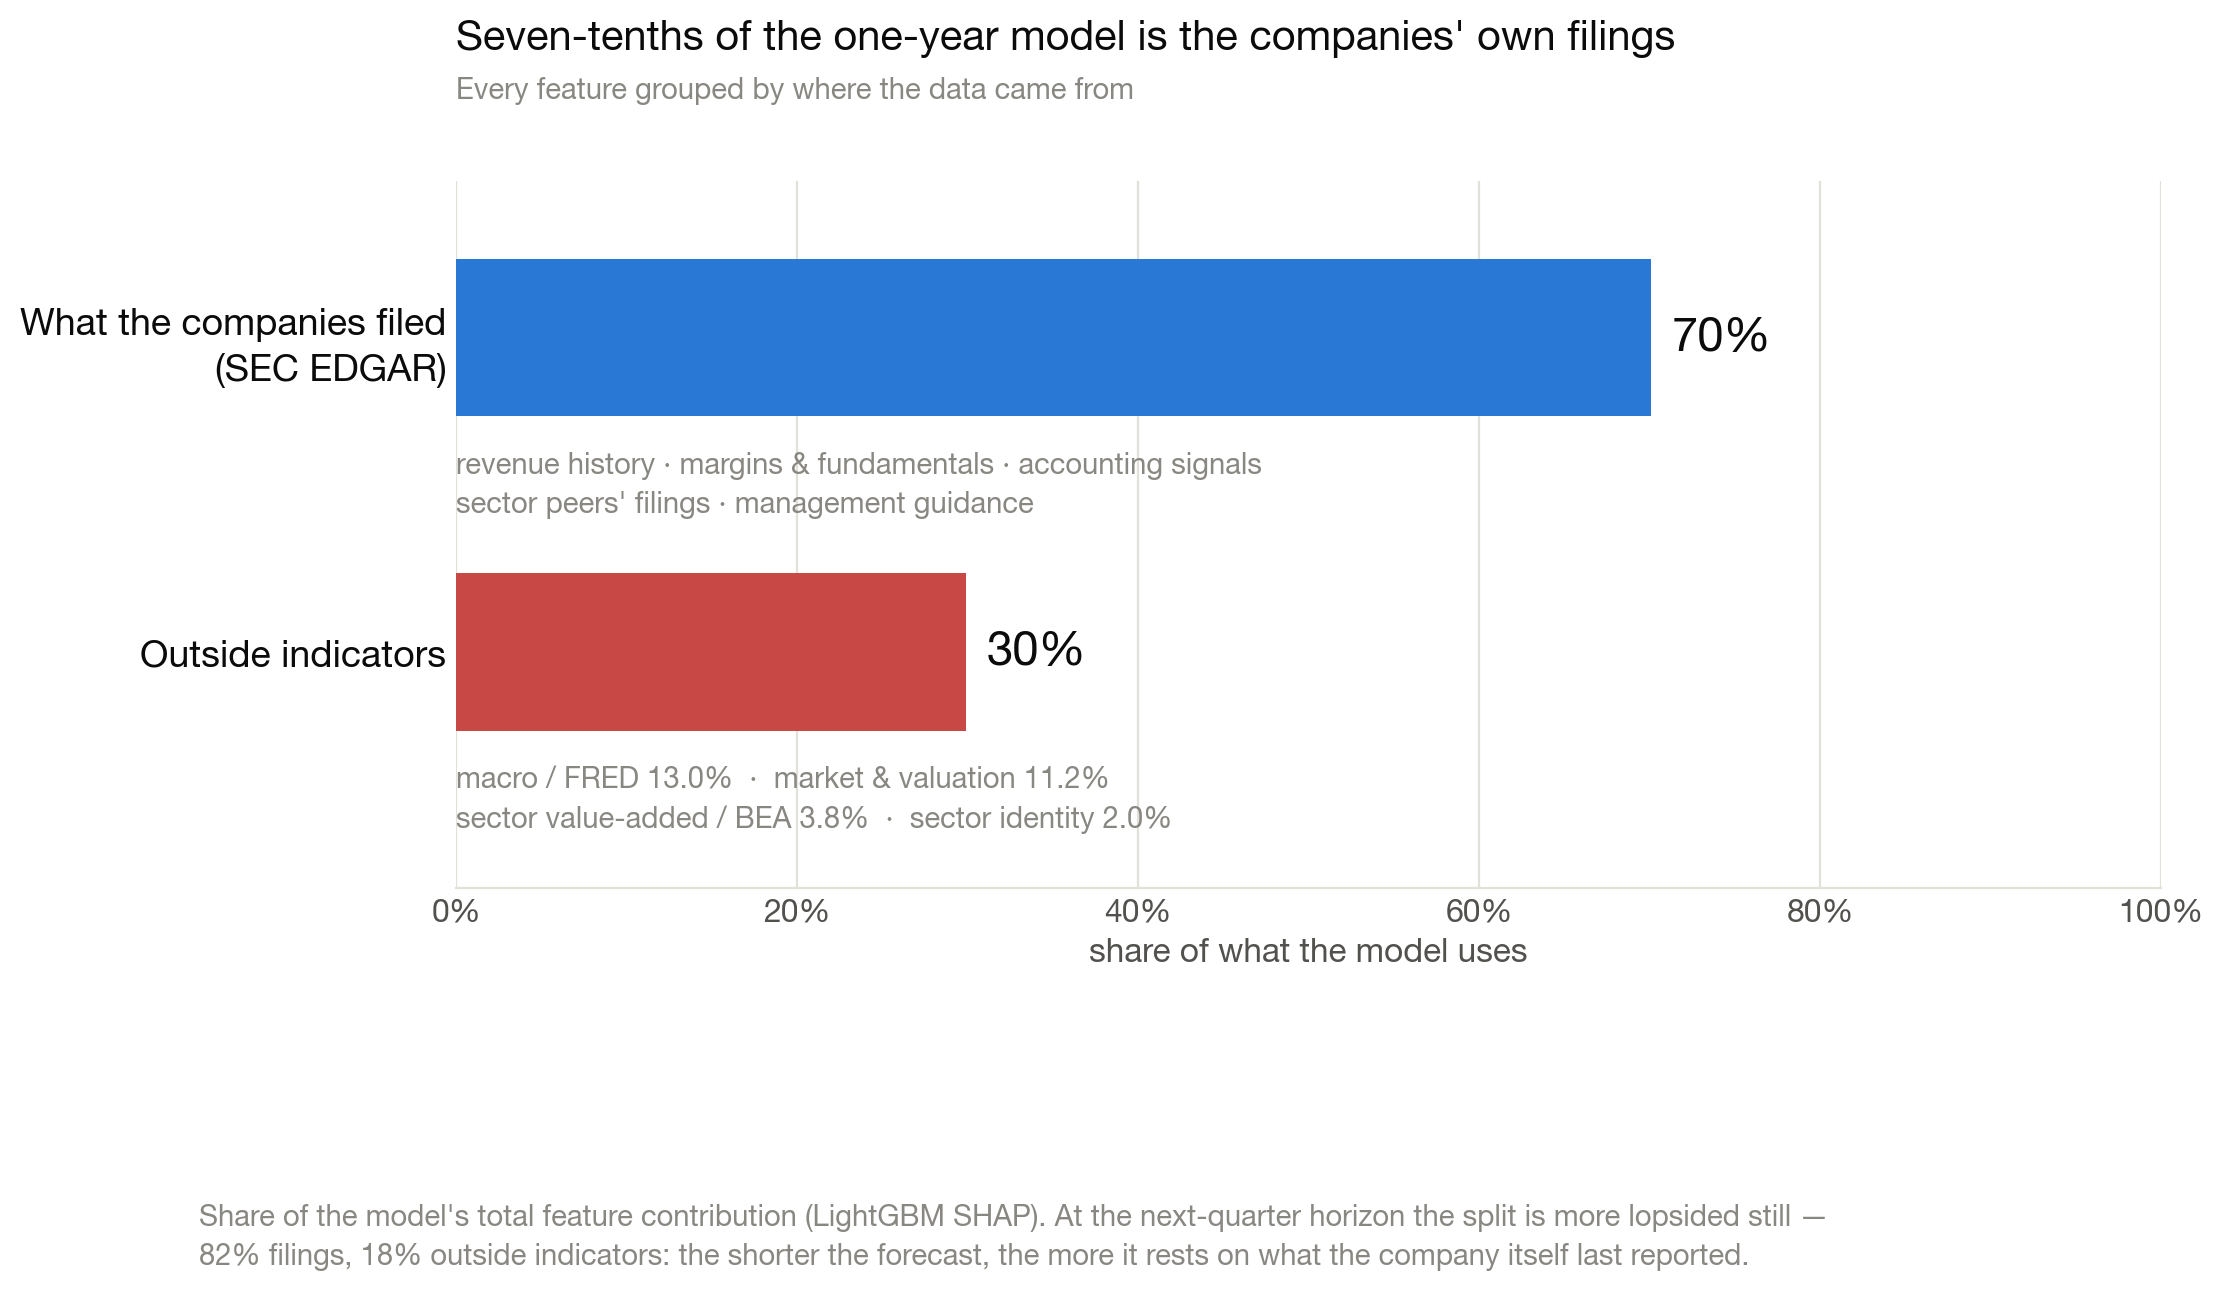
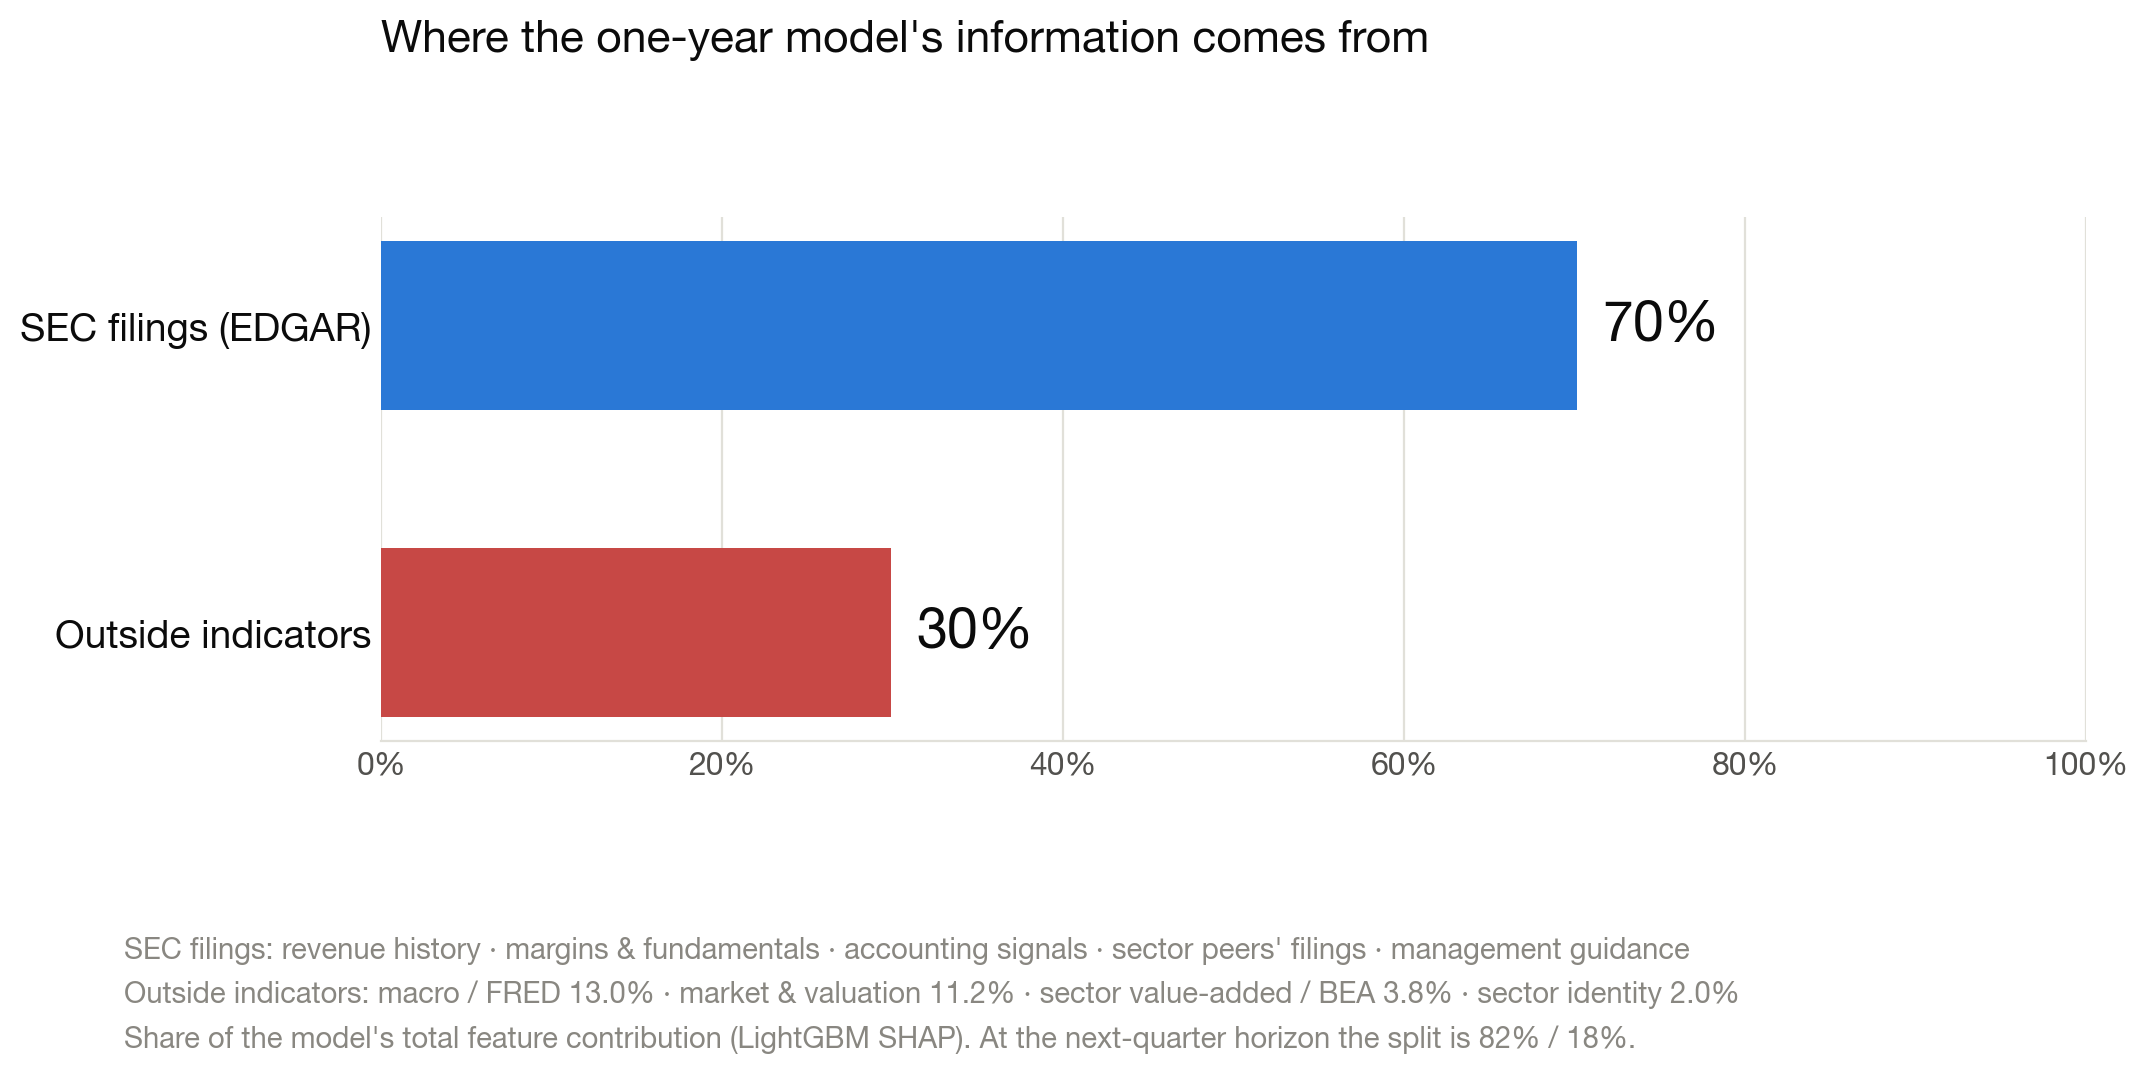
charts: strip prose out of the 5_data_source_split plot area
Plot area now holds bars, labels and percentages only — the per-bar
composition text and the sourcing note moved into a single block below the
axis, so the figure crops cleanly to just the chart. Percentages enlarged to
20pt, bar labels shortened.

diff --git a/make_charts.py b/make_charts.py
@@ -491,39 +491,37 @@ def chart_source_split():
     """Two blocks: what the companies filed with the SEC, versus everything
     sourced from outside those filings. Same SHAP shares as 4_macro_share,
     just collapsed to their origin."""
-    rows = [("What the companies filed\n(SEC EDGAR)", 70.11, B_MAIN,
-             "revenue history · margins & fundamentals · accounting signals\n"
-             "sector peers' filings · management guidance"),
-            ("Outside indicators", 29.89, R_MAIN,
-             "macro / FRED 13.0%  ·  market & valuation 11.2%\n"
-             "sector value-added / BEA 3.8%  ·  sector identity 2.0%")]
-    fig, ax = plt.subplots(figsize=(11.0, 4.6))
+    # Plot area holds bars, labels and numbers only. Every line of prose sits
+    # below the axis in one block, so the figure crops cleanly to the chart.
+    rows = [("SEC filings (EDGAR)", 70.11, B_MAIN),
+            ("Outside indicators", 29.89, R_MAIN)]
+    fig, ax = plt.subplots(figsize=(11.0, 3.4))
     y = np.arange(len(rows))[::-1]
-    ax.barh(y, [r[1] for r in rows], color=[r[2] for r in rows], height=0.5)
+    ax.barh(y, [r[1] for r in rows], color=[r[2] for r in rows], height=0.55)
     for yy, r in zip(y, rows):
-        ax.text(r[1] + 1.2, yy, f"{r[1]:.0f}%", va="center", fontsize=17,
+        ax.text(r[1] + 1.5, yy, f"{r[1]:.0f}%", va="center", fontsize=20,
                 fontweight="700", color=INK)
-        ax.text(0, yy - 0.36, r[3], va="top", ha="left", fontsize=10.5,
-                color=MUTED, linespacing=1.5)
     ax.set_yticks(y)
-    ax.set_yticklabels([r[0] for r in rows], fontsize=13.5, color=INK,
-                       linespacing=1.4)
+    ax.set_yticklabels([r[0] for r in rows], fontsize=14, color=INK)
     ax.set_xlim(0, 100)
-    ax.set_ylim(-0.75, 1.5)
-    ax.set_xlabel("share of what the model uses", fontsize=12, color=INK2)
+    ax.set_xticks([0, 20, 40, 60, 80, 100])
     ax.xaxis.set_major_formatter(mpl.ticker.PercentFormatter(decimals=0))
     ax.xaxis.grid(True, color=GRID, linewidth=0.8)
     ax.set_axisbelow(True)
     ax.tick_params(axis="x", labelsize=11.5, colors=INK2)
     for s in ("top", "right", "left"):
         ax.spines[s].set_visible(False)
-    title(ax, "Seven-tenths of the one-year model is the companies' own filings",
-          "Every feature grouped by where the data came from", y=1.12)
-    fig.text(0.008, -0.30,
-             "Share of the model's total feature contribution (LightGBM SHAP). At the next-quarter "
-             "horizon the split is more lopsided still —\n82% filings, 18% outside indicators: the "
-             "shorter the forecast, the more it rests on what the company itself last reported.",
-             fontsize=10.5, color=MUTED, linespacing=1.5)
+    ax.text(0, 1.30, "Where the one-year model's information comes from",
+            transform=ax.transAxes, fontsize=16, fontweight="600", color=INK,
+            va="bottom", ha="left")
+    fig.text(0.008, -0.34,
+             "SEC filings: revenue history · margins & fundamentals · accounting signals · "
+             "sector peers' filings · management guidance\n"
+             "Outside indicators: macro / FRED 13.0% · market & valuation 11.2% · "
+             "sector value-added / BEA 3.8% · sector identity 2.0%\n"
+             "Share of the model's total feature contribution (LightGBM SHAP). "
+             "At the next-quarter horizon the split is 82% / 18%.",
+             fontsize=10.5, color=MUTED, linespacing=1.7)
     save(fig, "5_data_source_split")
 
 
